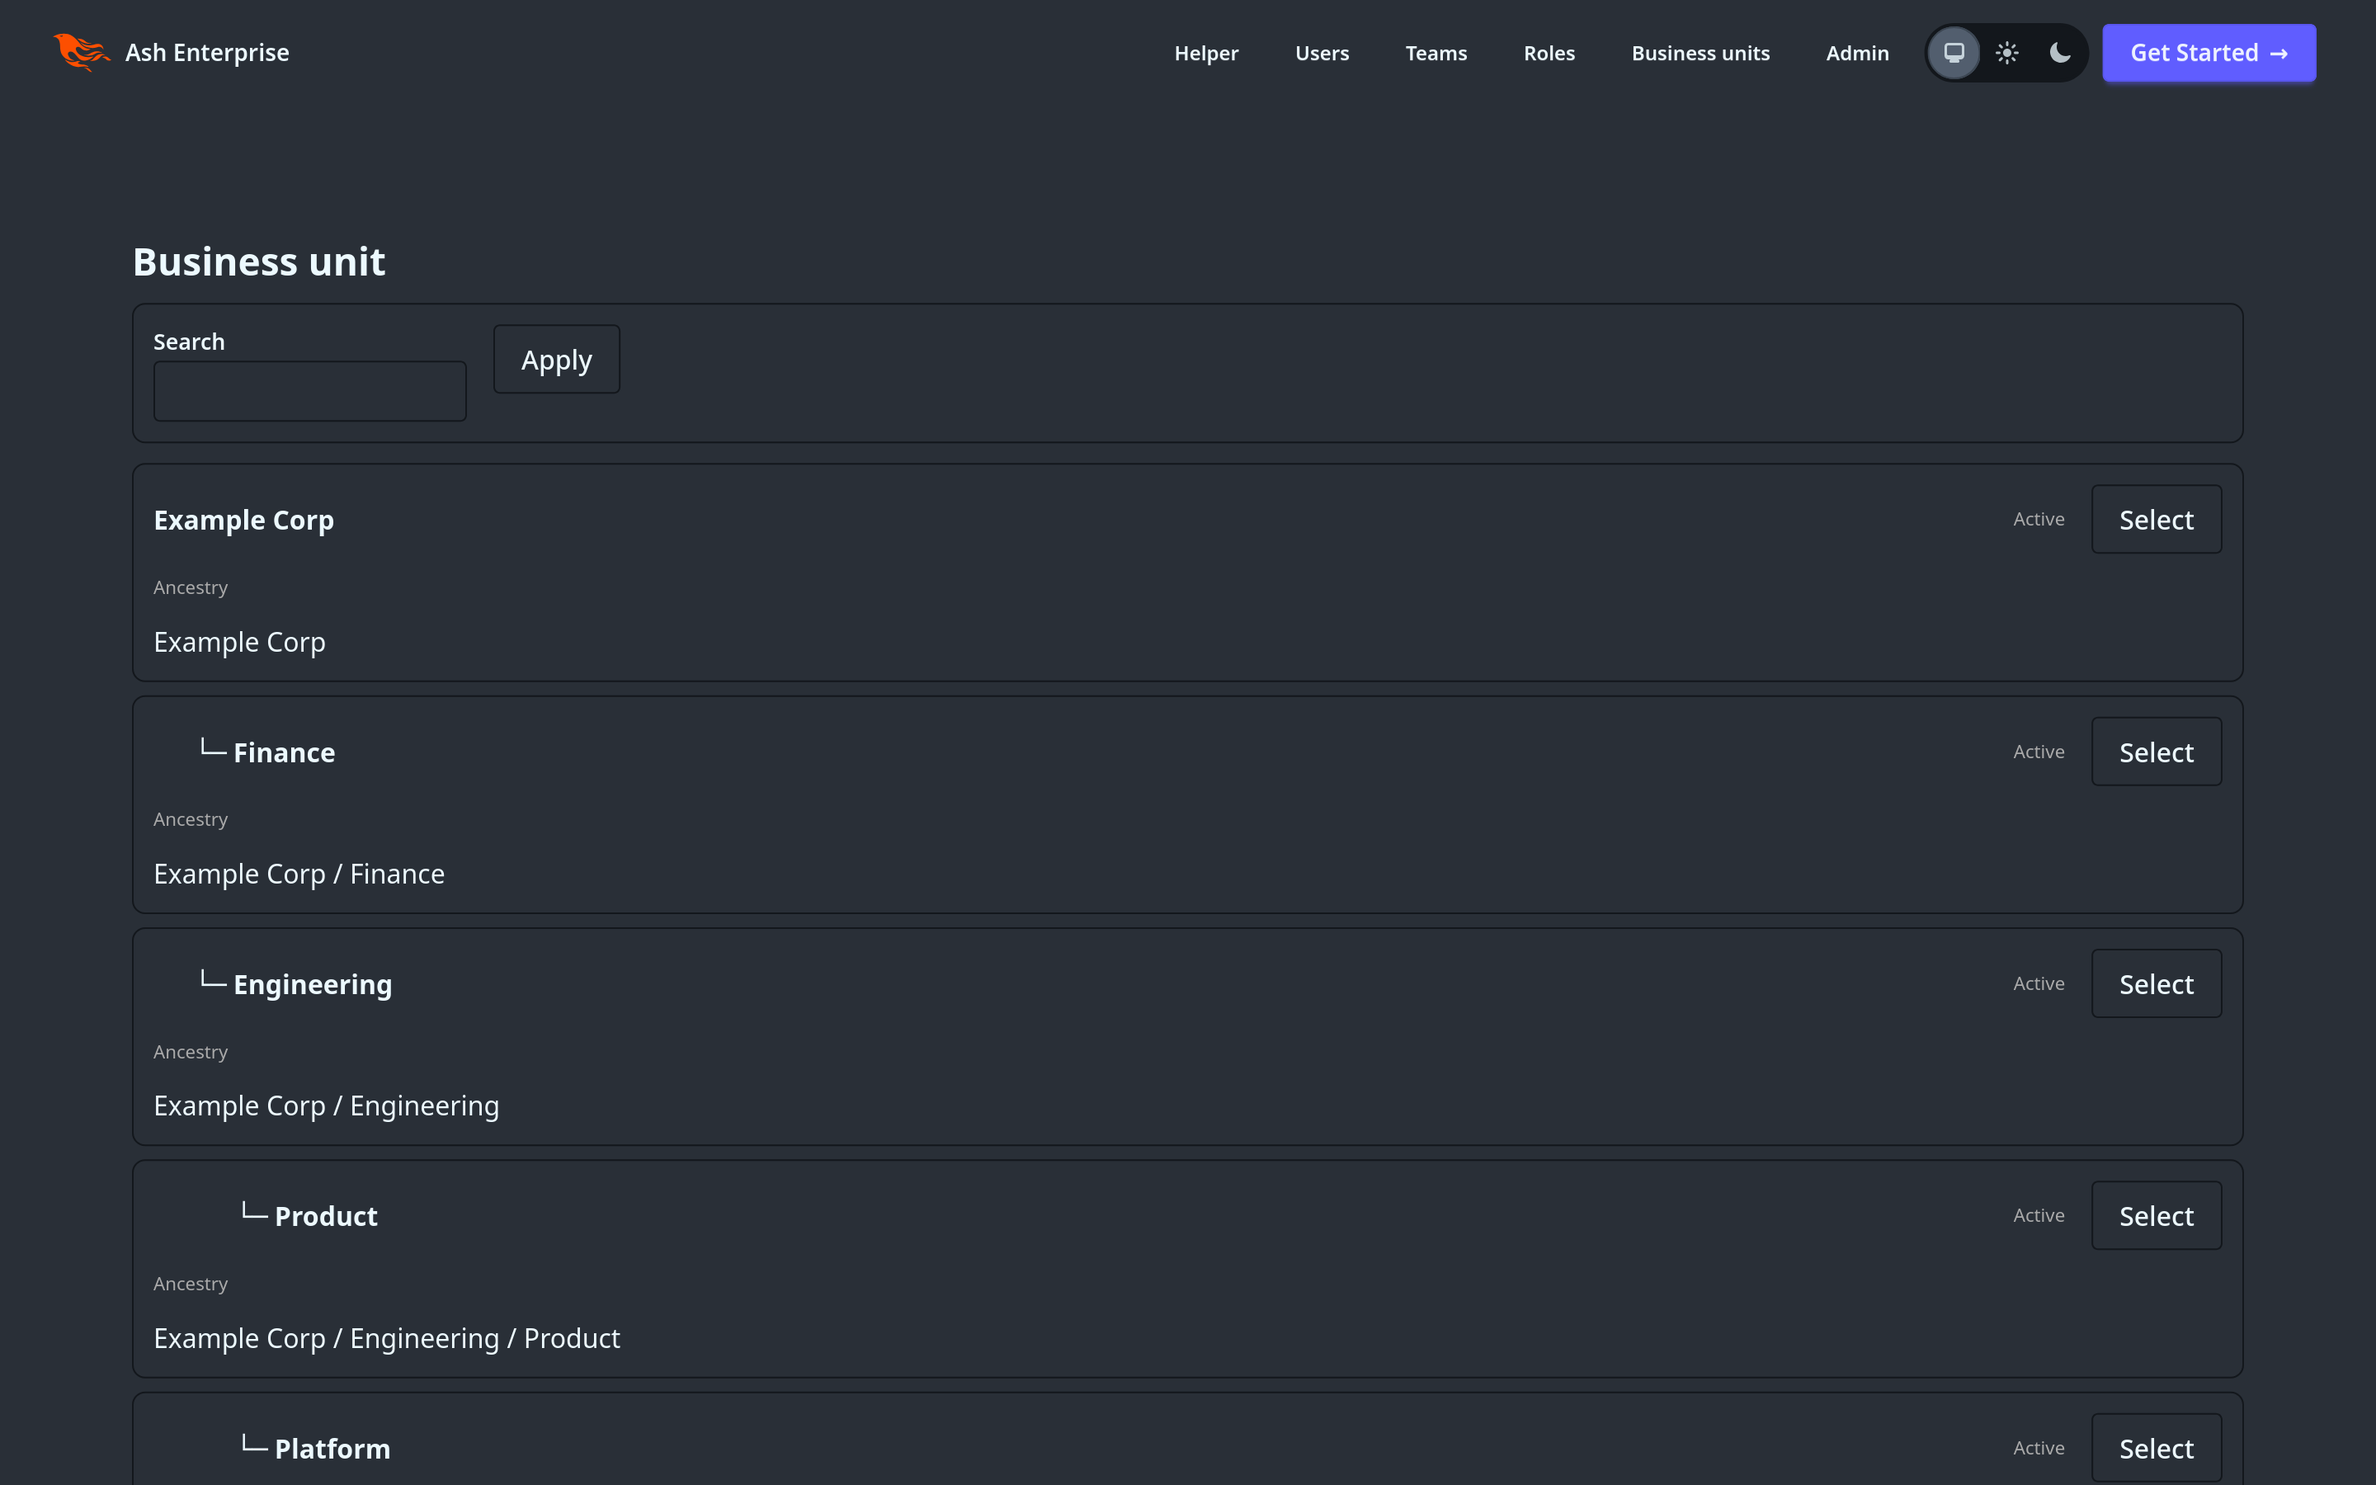
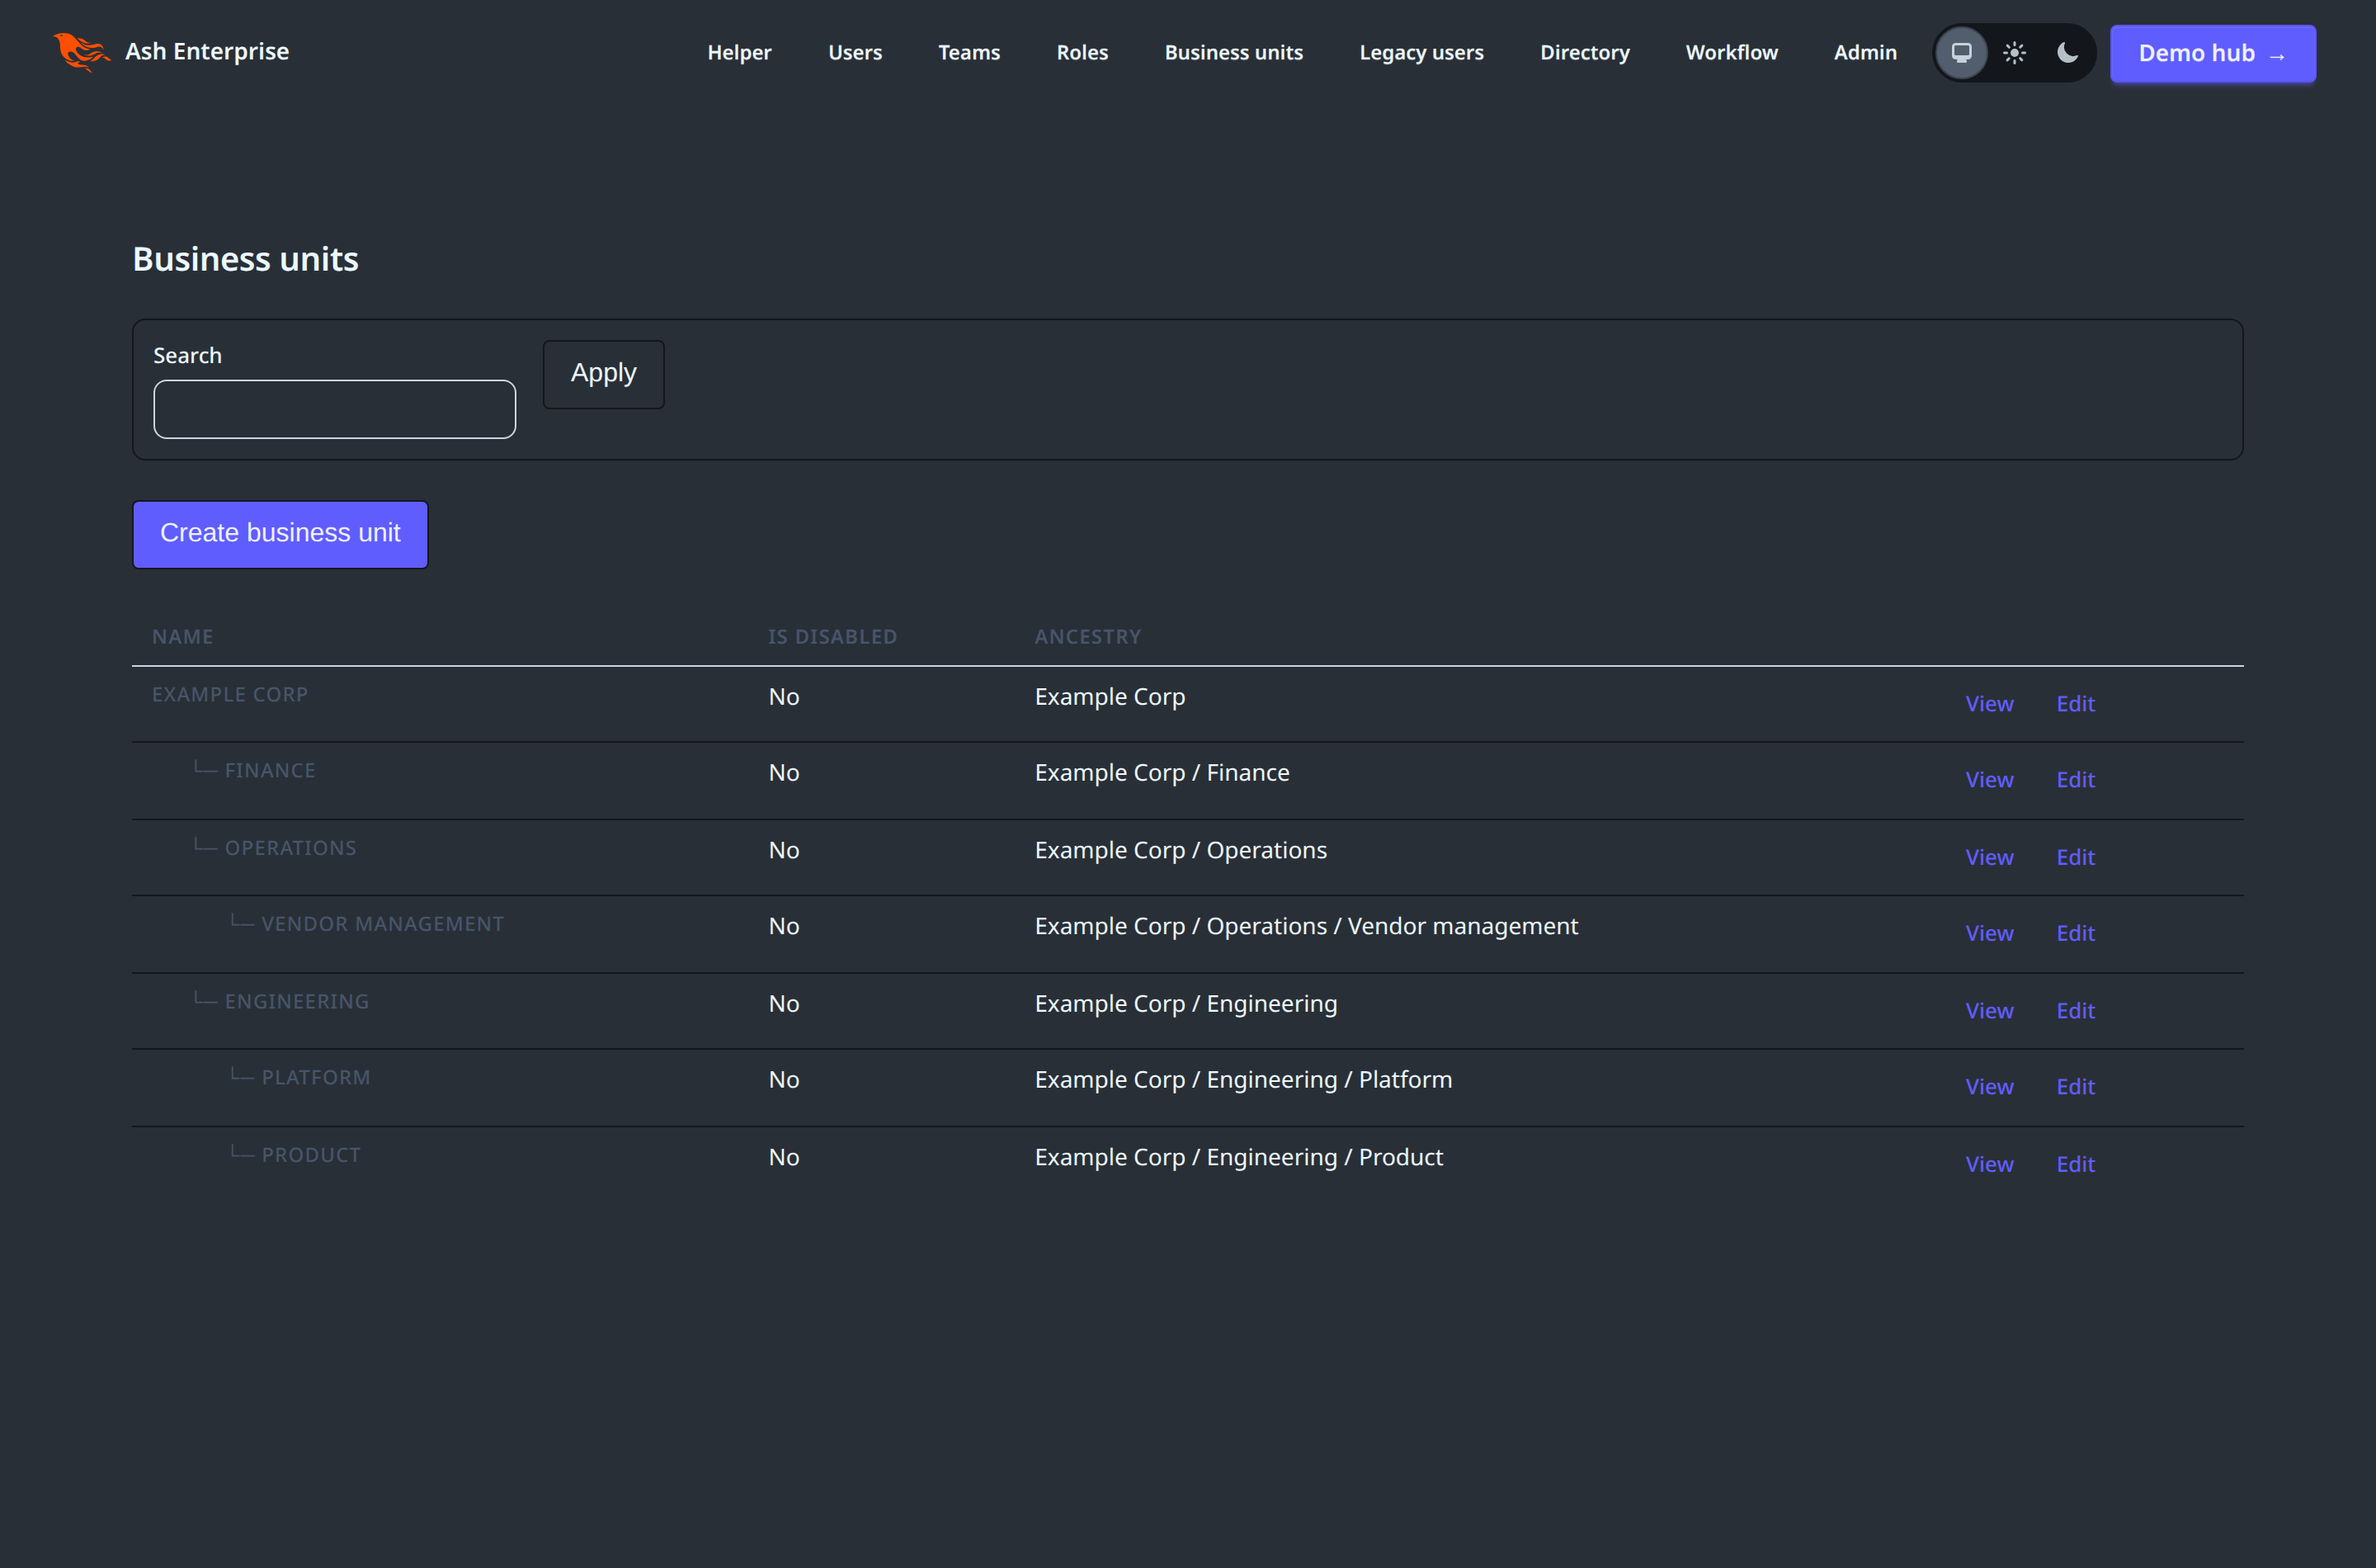
Re-shoot the screenshots against what the application is now
Every A2UI screenshot in this README was taken on 15-18 August and none had been
retaken since. They were the first thing anyone saw of this project and they were
showing a surface that no longer exists.

Re-captured against the running application, signed in as a real actor, with the
demo tenant `mix ash_enterprise.demo` provisions -- so the business-unit shot is
a seven-node tree with ancestry rather than a single row demonstrating a
hierarchy of one, and the roles shot has five roles whose descriptions say what
they actually grant.

The prose changed where it was describing the wrong thing. The surfaces
paragraph said "the list, the filter, the pagination and the create form are all
derived", which listed a permanently visible form as a feature; what is derived
is the grid, the filter and the *tasks*, and the paragraph now says so, including
the part worth pointing at: affordances come from the actions that exist, which
is why `/app/legacy-users` is read-only without anything in this application
saying so. `mix ash_enterprise.demo` joins the quickstart, with the reason it
exists rather than just the command.

Added the demo hub at `/app/demo`, which is the shortest path through the whole
thing and was not pictured at all.

Two things deliberately not included. The dev-only `/canvas` surface renders its
object graph to a `<canvas>` that stays blank at 1440x950 -- the outline pane
lists all 68 nodes and 49 edges correctly, so the data is there and the drawing
[…]

diff --git a/README.md b/README.md
@@ -122,13 +122,22 @@ read before committing to any of this.
 devenv up -d                            # Postgres (with pgvector)
 devenv shell -- mix setup               # deps, database, migrations
 devenv shell -- mix ash_enterprise.seed # a tenant, a role, a user
+devenv shell -- mix ash_enterprise.demo # a business-unit tree, people, teams, roles
 devenv shell -- iex-server              # the app
 ```
+
+`seed` provisions the minimum — one organization, one business unit, one
+administrator — which is what tests want and what a first run needs. `demo`
+fills it out, because most of what this platform argues for is invisible against
+a single row: grant depth needs a subtree to be measured over, and policies that
+differ per actor need a second actor. Everything it creates goes through the
+application's own actions, so the people it adds can sign in.
 
 Sign in with the credentials the seeder prints, then visit:
 
 | URL | What |
 |---|---|
+| `/app/demo` | Demo hub — every surface below, one link away |
 | `/agent` | Helper console — proposes changes for your approval, and shows or composes tables on request |
 | `/app/users`, `/app/teams`, `/app/roles`, `/app/business-units` | A2UI surfaces derived from resource metadata |
 | `/app/legacy-users` | The same, over a 2010-era Rails schema read through a compatibility view — and it updates when the old application writes |
@@ -142,10 +151,23 @@ No markup was written for any of this. Every surface here is derived from the
 same resource definitions — which is the point: the screenshots are what you get
 for declaring a resource, before writing any UI.
 
+**The demo hub** at `/app/demo` is the shortest path through all of it, and the
+place to start after seeding.
+
+![The demo hub, linking the strangler demo, the process modeller, the agents, the diagrams and the admin console](docs/screenshots/demo-dashboard.png)
+
 **A2UI surfaces.** One page per resource, rendered from resource metadata. The
-list, the filter, the pagination and the create form are all derived; the actor
-and the tenant are the only things the LiveView supplies, so each surface is
-filtered by exactly the policies that guard the API.
+grid, the filter and the tasks are all derived; the actor and the tenant are the
+only things the LiveView supplies, so each surface is filtered by exactly the
+policies that guard the API.
+
+What a surface offers is derived too, from the actions that exist. A resource
+with an update action gets `Edit` on the row; one without gets `View` alone —
+which is why `/app/legacy-users` below is read-only without anything in this
+application saying so, the strangler read model having declared `defaults [:read]`
+and nothing else. Pagination appears when there is another page to go to. A form
+appears when you start a task, headed with which task it is, and its button says
+what it will do.
 
 What *is* declared is a dozen lines of layout intent per surface — which field is
 the title, which is the status badge, what belongs in the metadata grid — because
@@ -155,7 +177,7 @@ version of the spec. Appearance comes from a CSS custom-property contract that
 `assets/css/app.css` maps onto daisyUI's tokens, so these pages follow the same
 theme and the same dark-mode toggle as the rest of the app.
 
-![The business-unit surface, showing the materialized-path hierarchy](docs/screenshots/a2ui-business-units.png)
+![The business-unit surface: seven units as a tree, each row showing its ancestry, with View and Edit per row and a Create business unit action](docs/screenshots/a2ui-business-units.png)
 
 The same generator, three more resources — users, teams and security roles:
 
